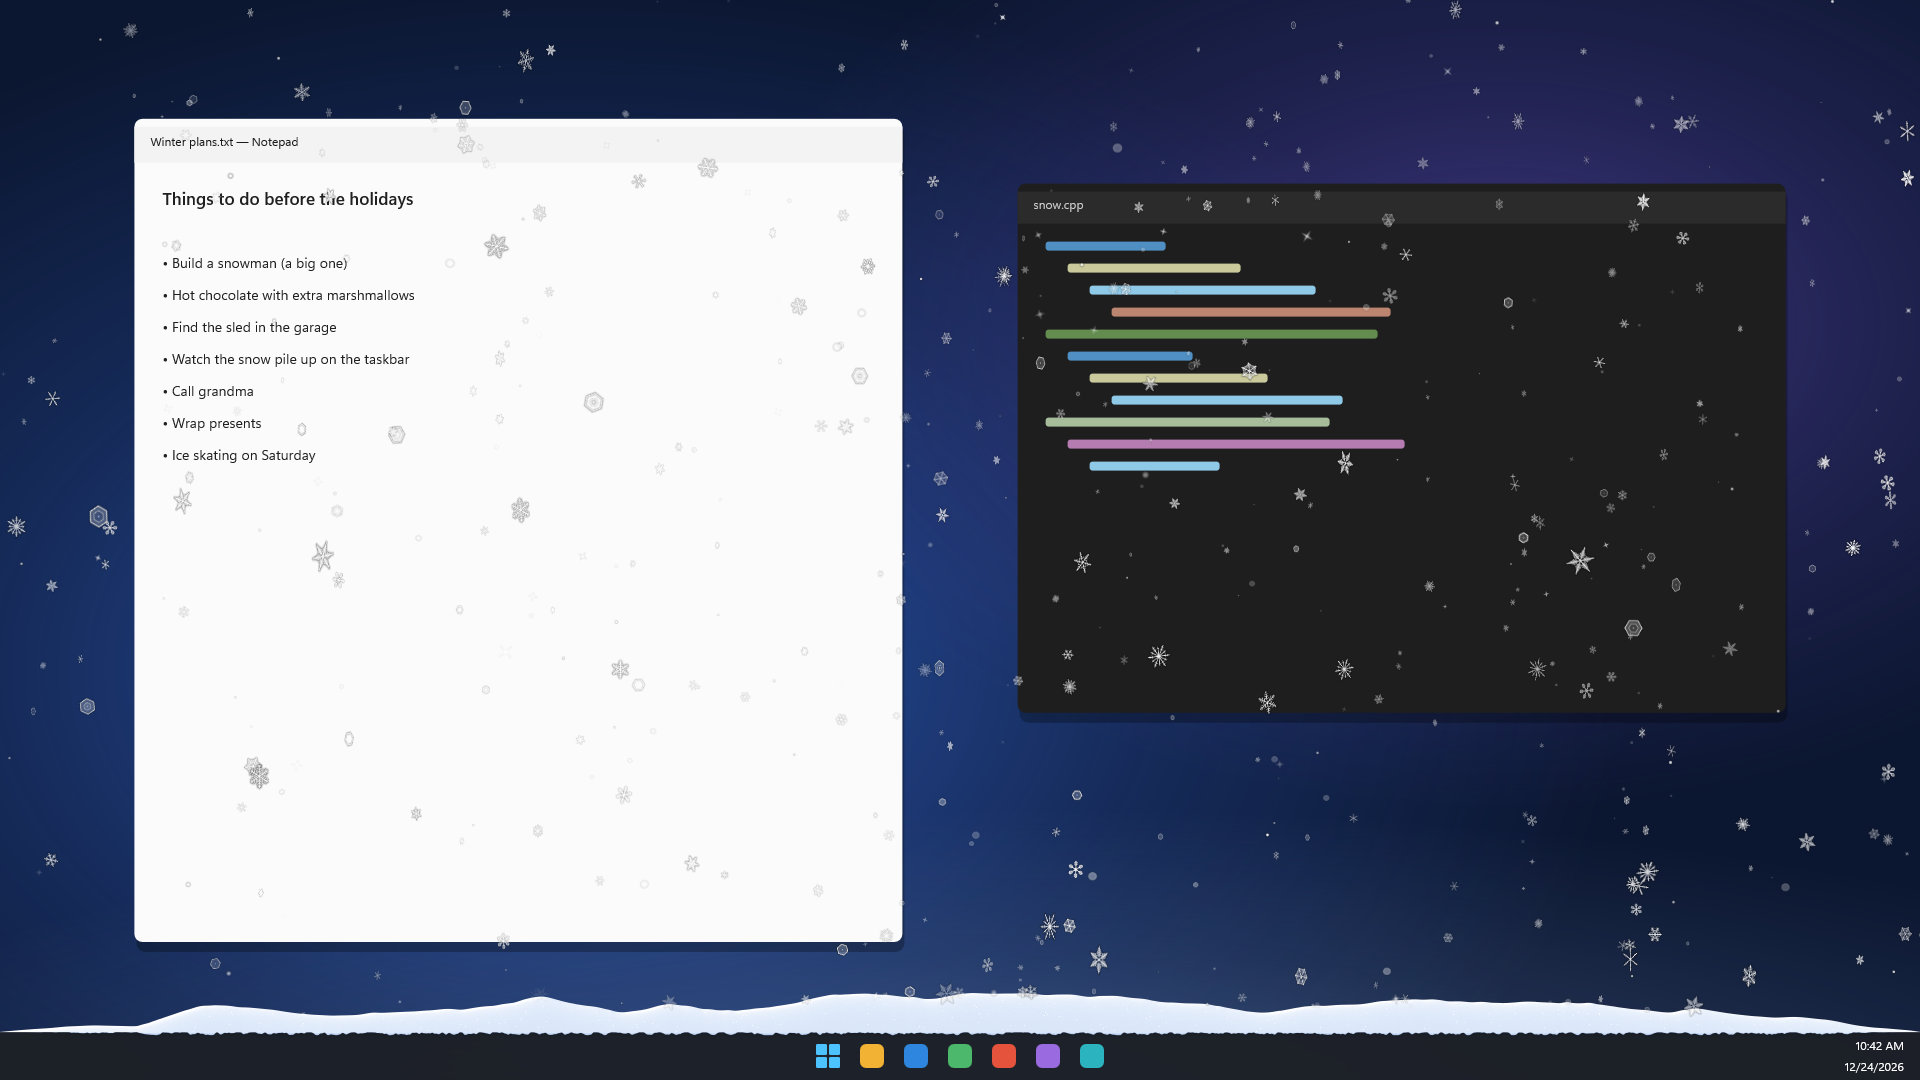
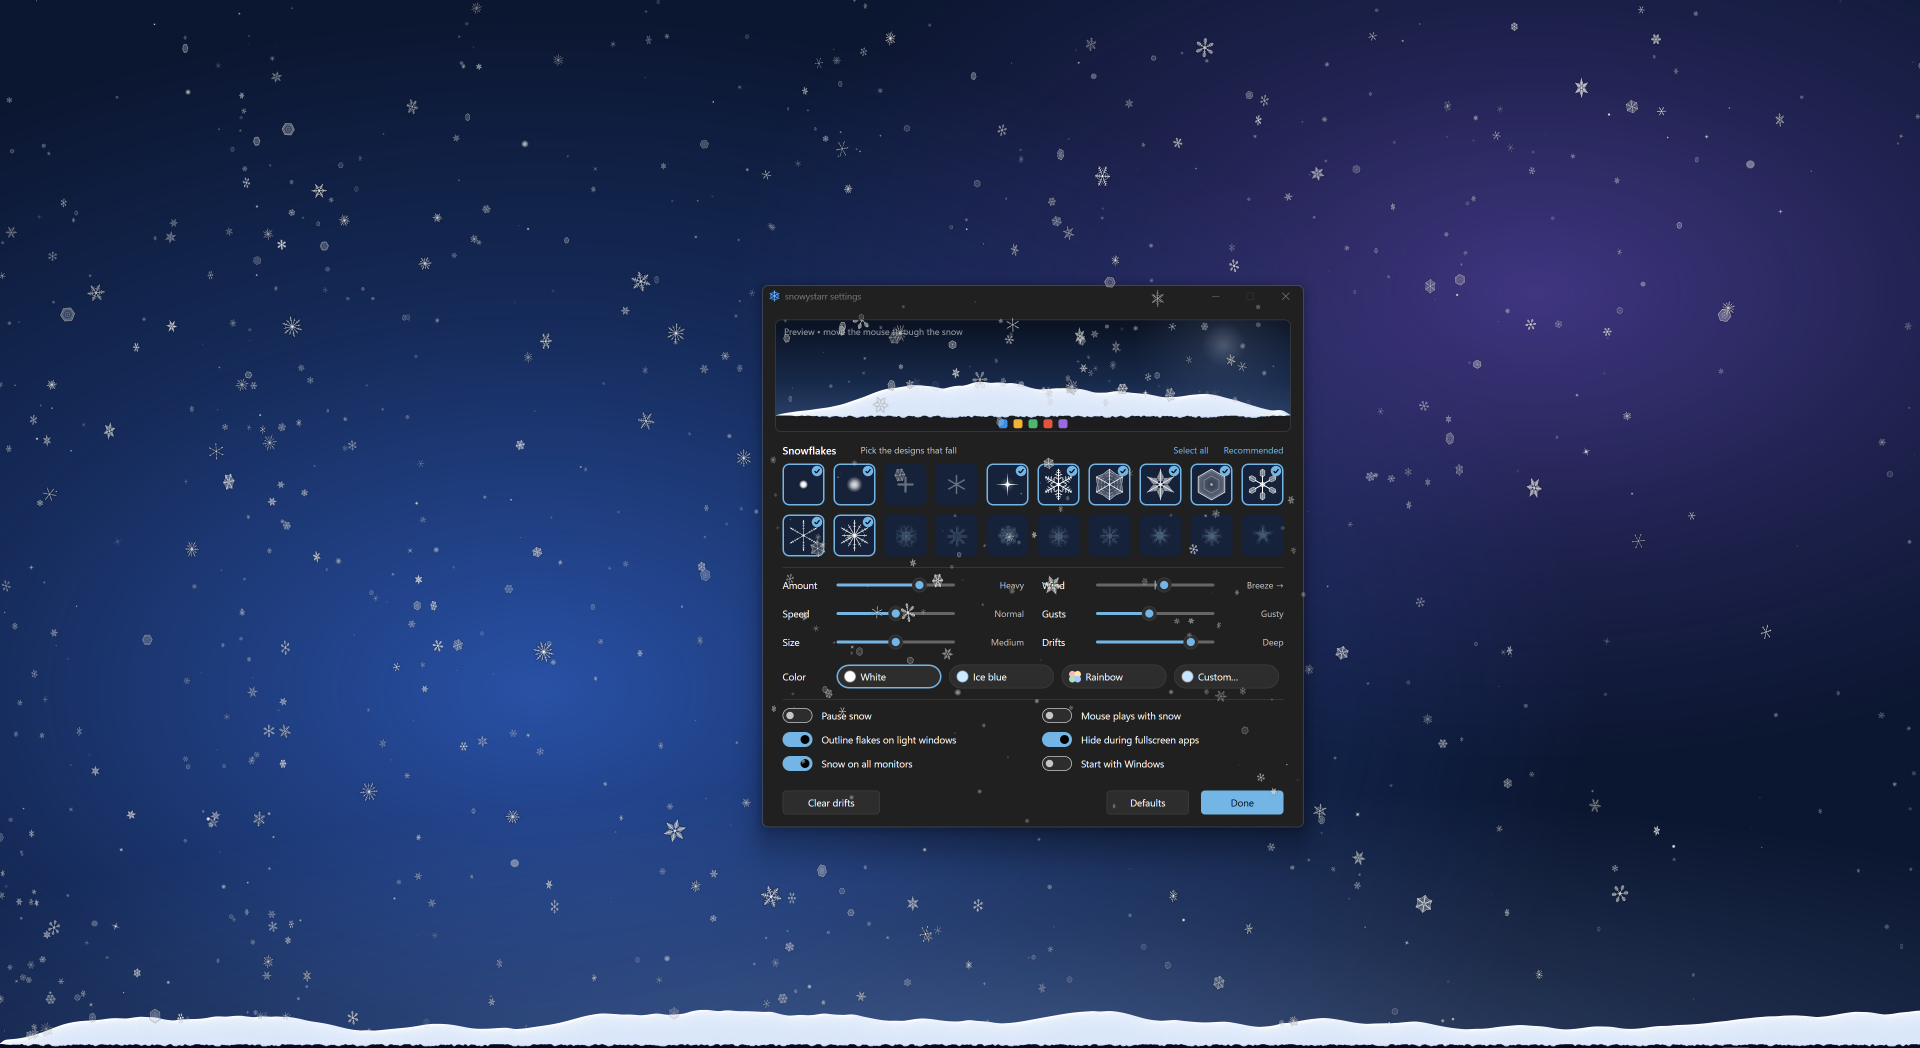
README: real screenshots
Captured from snowystarr running on Windows 11 (150%) over a plain backdrop; cropped above the taskbar icons. Adds a dev-tools-only SNOWYSTARR_DRIFT_BOOST switch used to build drifts quickly for screenshots.

diff --git a/src/Renderer.cpp b/src/Renderer.cpp
@@ -153,6 +153,11 @@ MonitorRenderer::MonitorRenderer(HWND notify, GpuDeviceHub& gpu, const MonitorTa
     wake_ = CreateEventW(nullptr, FALSE, FALSE, nullptr);
     wchar_t debug[8];
     stats_.enabled = GetEnvironmentVariableW(L"SNOWYSTARR_DEBUG", debug, 8) > 0 && debug[0] == L'1';
+#ifdef SNOWYSTARR_DEV_TOOLS
+    // Screenshots/tests: build drifts faster (SNOWYSTARR_DRIFT_BOOST=8).
+    wchar_t boost[16];
+    if (GetEnvironmentVariableW(L"SNOWYSTARR_DRIFT_BOOST", boost, 16) > 0) scene_->SetDriftBoost(static_cast<float>(_wtof(boost)));
+#endif
     pendingSettings_ = settings;
     period_ = 1.0 / std::max(target.refreshHz, 24.0f);
 

diff --git a/README.md b/README.md
@@ -42,8 +42,7 @@ using the mouse.
 
 Right-click the snowflake for a quick menu with presets for everything above.
 
-> The images above are produced by snowystarr's own rendering code (the same
-> simulation, flake art and drift renderer the app uses) drawn over a staged desktop.
+> Screenshots: snowystarr running on Windows 11 at 150% scaling, over a plain backdrop.
 
 ## Features
 
